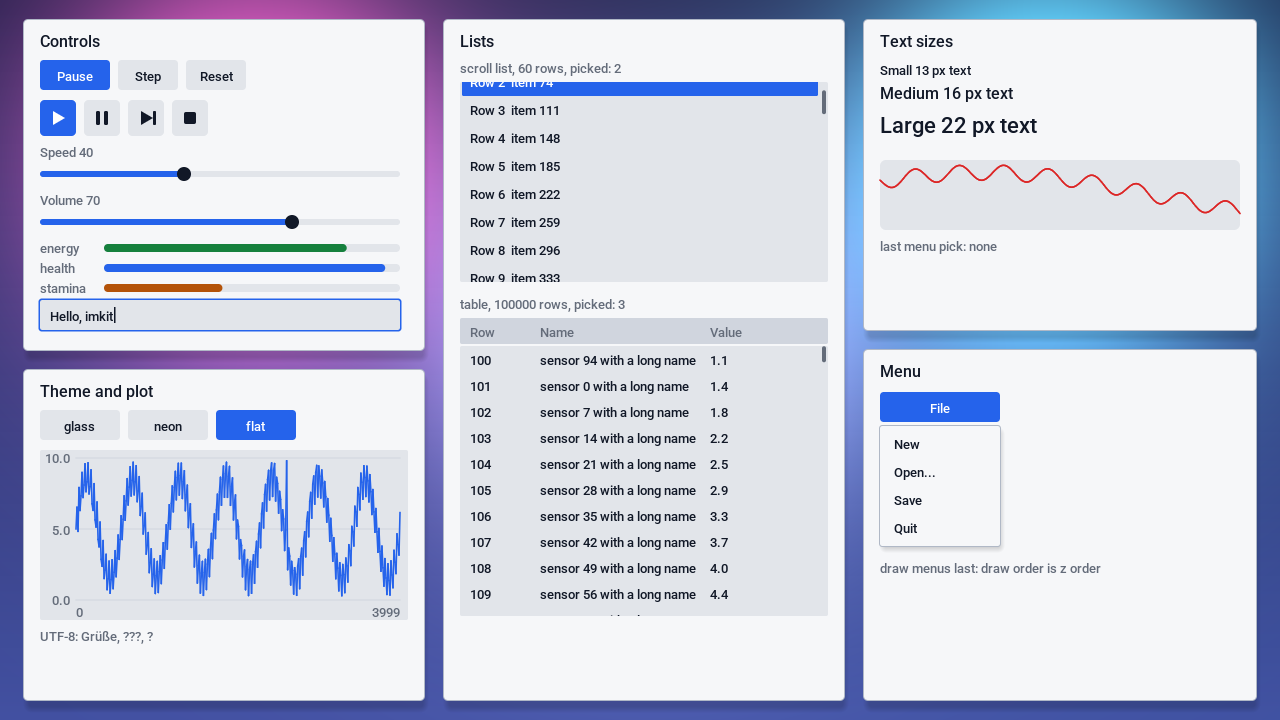
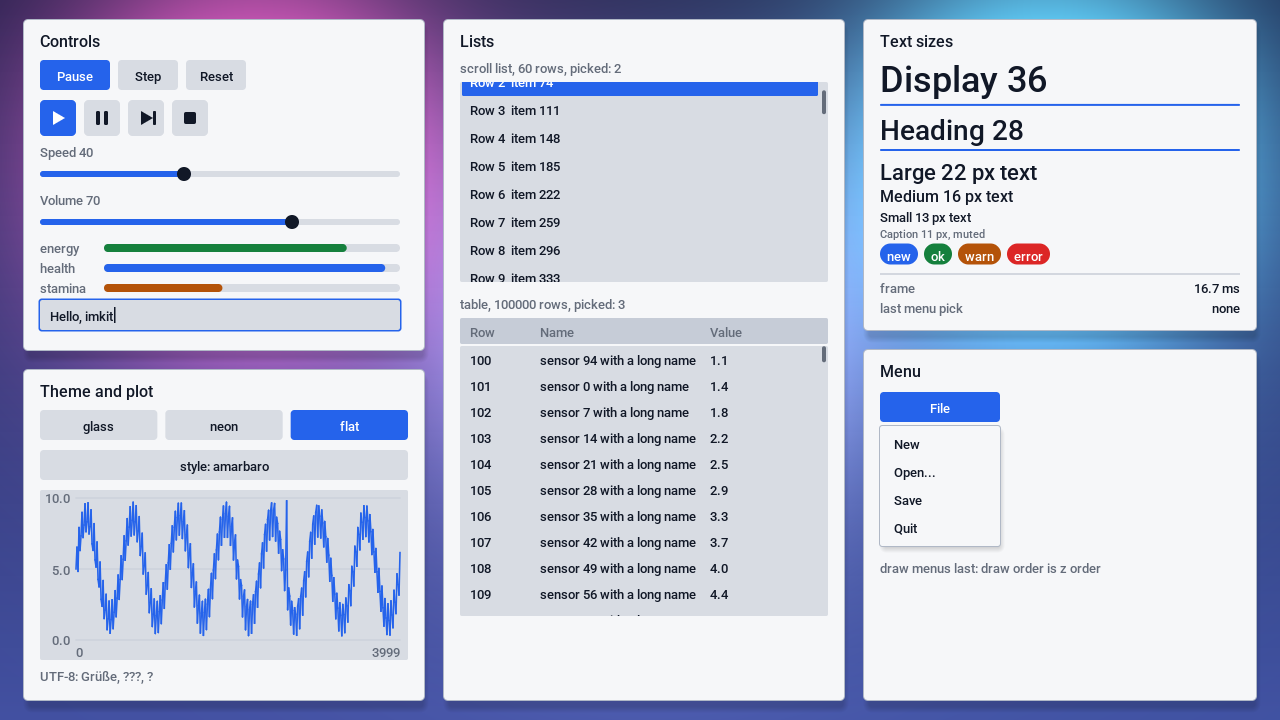
docs(readme): amarbaro and built-in shots, eight generated styles, WebP and styles modules

diff --git a/libs/imkit/README.md b/libs/imkit/README.md
@@ -4,11 +4,19 @@
 [![ci](https://github.com/amarbaro/mojo-imkit/actions/workflows/ci.yml/badge.svg?branch=main)](https://github.com/amarbaro/mojo-imkit/actions/workflows/ci.yml) [![latest release](https://img.shields.io/github/v/release/amarbaro/mojo-imkit)](https://github.com/amarbaro/mojo-imkit/releases/latest) [![license](https://img.shields.io/github/license/amarbaro/mojo-imkit)](https://github.com/amarbaro/mojo-imkit/blob/main/LICENSE)
 <!-- /badges -->
 
-The gallery example (`examples/gallery.mojo`) in its three theme presets, rendered on the GPU by `scripts/gallery.sh`:
+The gallery example (`examples/gallery.mojo`), rendered on the GPU by `scripts/gallery.sh`, in the amarbaro themes and the three built-ins:
+
+| amarbaro | amarbaro-light |
+|---|---|
+| ![amarbaro](docs/img/gallery-amarbaro.png) | ![amarbaro-light](docs/img/gallery-amarbaro-light.png) |
 
 | glass | neon | flat |
 |---|---|---|
 | ![glass](docs/img/gallery-glass.png) | ![neon](docs/img/gallery-neon.png) | ![flat](docs/img/gallery-flat.png) |
+
+Eight of the 29 generated styles (`imkit.styles`, each with a background and 8 icons in `assets/styles/`):
+
+![styles](docs/img/styles.jpg)
 
 An immediate-mode GUI for Mojo apps, drawn by the GPU. It takes the idea behind Dear ImGui and imgui-bundle (widgets
 are function calls made every frame, no retained widget tree) and builds it in Mojo around a GPU app's own frame:
@@ -26,8 +34,10 @@ FreeType are called through Mojo's FFI.
 | `imkit.font` | glyph atlas from a TrueType font (ASCII 32-126, a few pixel sizes, alpha8), built once at start |
 | `imkit.draw` | `Draw` (`ui.d`): the command list, tile binning, the `compose` kernel; counters `ui.d.n`, `ui.d.dropped` |
 | `imkit.ui` | `Ui`: `begin(input)`, `panel`, `button`, `icon`, `bar`, `spark`, `text`, `field` (single-line text box), `rect`, `line`, `tri`, `image`, `finish()` |
-| `imkit.atlas`, `imkit.assets` | skyline packer for the glyph atlas; PNG and JPEG asset atlas (`pack`, `Assets`, `image_decode`, `png_decode`) |
+| `imkit.atlas`, `imkit.assets` | skyline packer for the glyph atlas; PNG, JPEG and WebP asset atlas (`pack`, `Assets`, `image_decode`, `png_decode`) |
 | `imkit.jpeg` | pure Mojo JPEG decoder, baseline and progressive (`jpeg_decode`) |
+| `imkit.webp` | pure Mojo WebP decoder: lossless, lossy and alpha (`webp_decode`) |
+| `imkit.styles`, `imkit.contrast` | 29 generated themes (`style(name)`, `STYLE_NAMES`) and the WCAG contrast gate every theme passes |
 | `imkit.theme` | `Theme` roles and the presets `glass()`, `neon()`, `flat()`; the module constants are the glass values |
 
 ## Use
